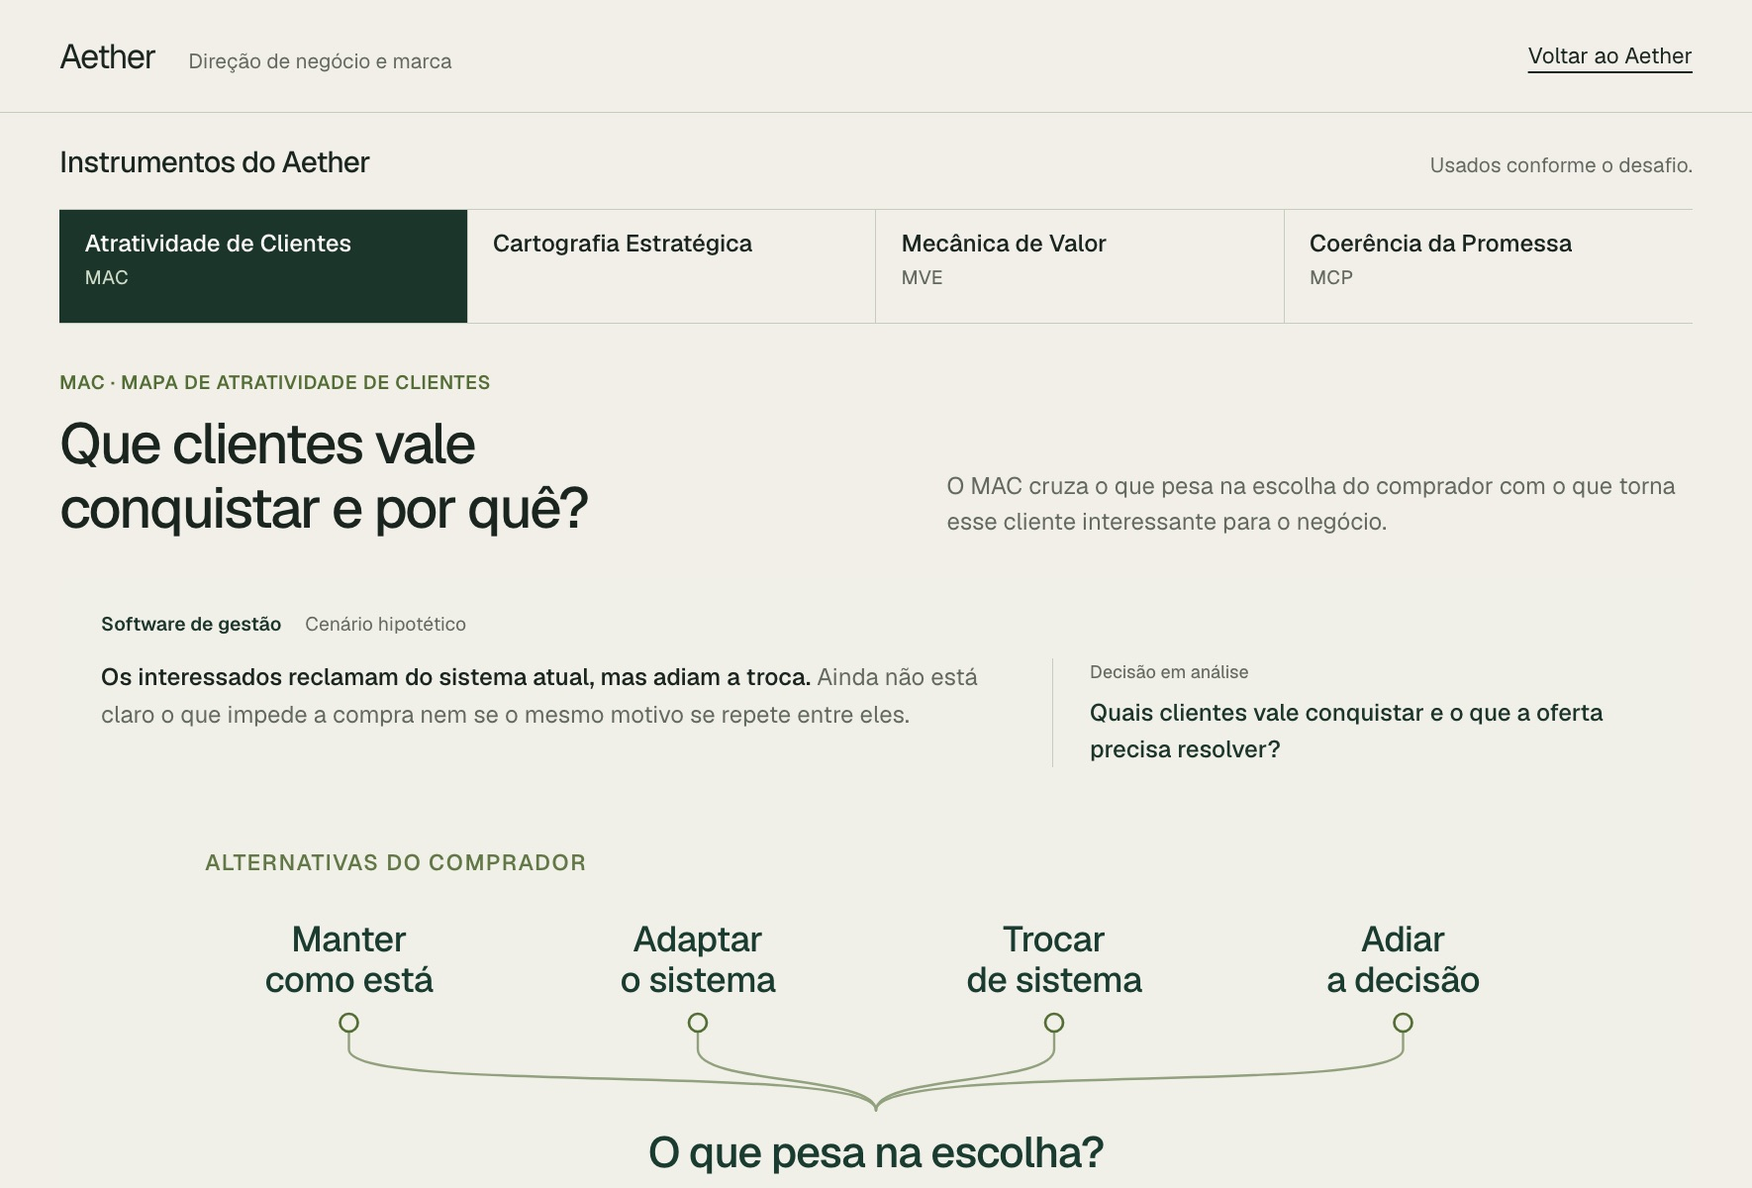
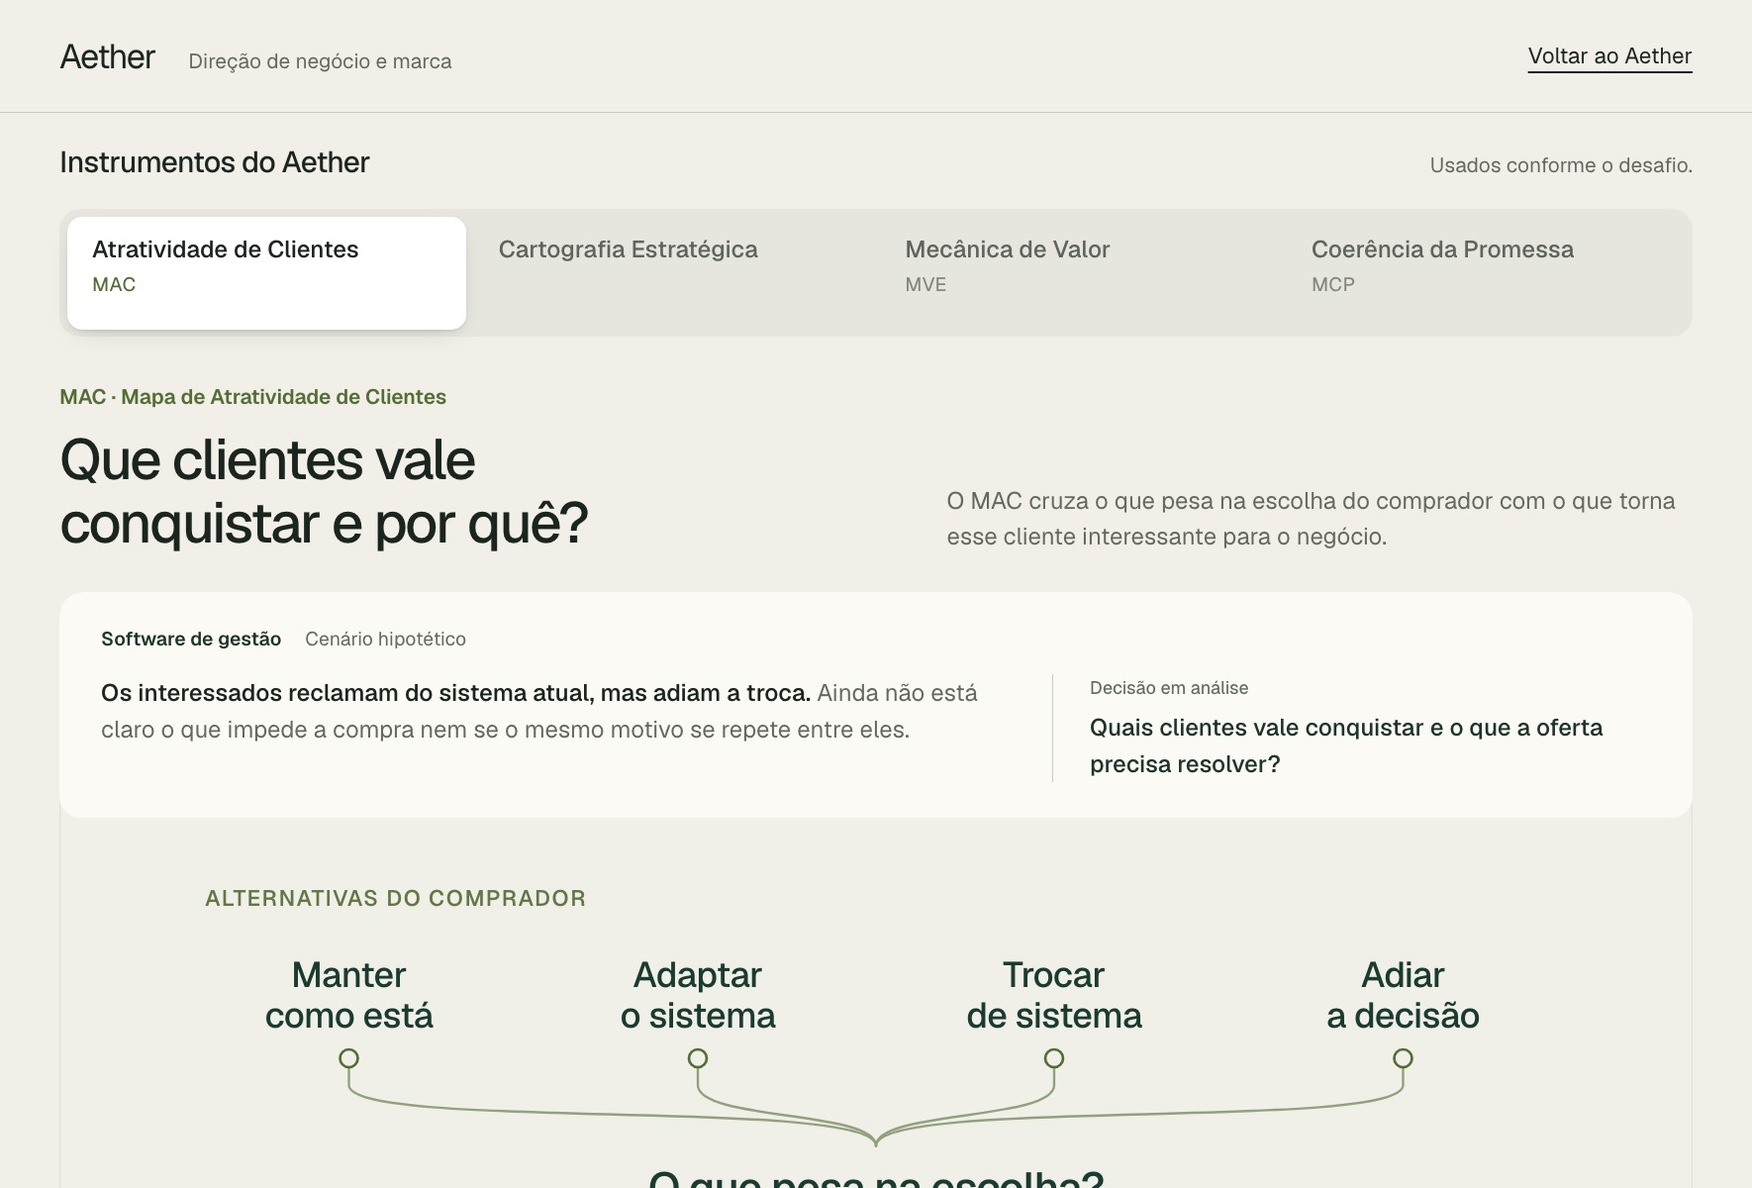
Aether: peça em 3D real (WebGL), projeto rediagramado, instrumentos com o iPad saindo da tela e diagramas com acabamento de app
A peça usa um mapa de profundidade gerado da foto e um shader WebGL: madeira e fundo se deslocam em relação ao papel, que ondula e recebe um brilho. Uma direção / O trabalho que ela exige com títulos e textos alinhados pelo topo e exemplos em lista. Bloco dos instrumentos com o texto maior e o iPad cortado pela borda da tela. Instrumentos com abas segmentadas, rótulos em caixa normal, superfícies arredondadas e linhas que se desenham ao trocar. Assinatura dos fundadores com as duas fotos, na altura dos botões. Carrossel começa pela Geórgia.

diff --git a/aether/js/aether-p.js b/aether/js/aether-p.js
@@ -117,6 +117,8 @@
   const box=document.querySelector('.founders');
   if(box&&!box.classList.contains('fx')){
     const people=[...box.querySelectorAll('.founder')];
+    /* começa pela Geórgia */
+    people.sort((a,b)=>(/Ge[óo]rgia/.test(b.querySelector('h3').textContent)?1:0)-(/Ge[óo]rgia/.test(a.querySelector('h3').textContent)?1:0));
     if(people.length>1){
       box.classList.add('fx');
       people.forEach(p=>p.classList.remove('rv'));
@@ -140,3 +142,113 @@
 
 /* 3 · as perguntas numa linha só: a quebra vira espaço */
 document.querySelectorAll('.a54-other-possibilities h3 br').forEach(br=>br.replaceWith(' '));
+
+/* exemplos do projeto como lista: cada linha (ou frase) vira um item, sem mudar o texto */
+document.querySelectorAll('.a54-project-examples').forEach(p=>{
+  if(p.querySelector('.pj-item'))return;
+  const hasBr=!!p.querySelector('br');
+  const parts=hasBr?p.innerHTML.split(/<br\s*\/?>/i):p.textContent.trim().split(/(?<=\.)\s+/);
+  p.innerHTML=parts.map(t=>t.trim()).filter(Boolean).map(t=>`<span class="pj-item">${t}</span>`).join(hasBr?'<br>':' ');
+});
+
+/* =====================================================================
+   A peça em 3D: profundidade gerada da própria foto (fundo longe, madeira
+   no meio, papel na frente) e um shader WebGL que desloca cada camada.
+   O papel fica como pivô e ondula de leve; a madeira e o fundo se movem
+   com o mouse e a rolagem.
+   ===================================================================== */
+(function(){
+  const ex=document.querySelector('.a54-exhibit');
+  if(!ex) return;
+  const imgs=[...ex.querySelectorAll('img.a54-art')];
+  if(!imgs.length||matchMedia('(prefers-reduced-motion: reduce)').matches) return;
+  const test=document.createElement('canvas').getContext('webgl');
+  if(!test) return;
+
+  const src=imgs[0];
+  const ready=src.complete&&src.naturalWidth?Promise.resolve():new Promise(r=>src.addEventListener('load',r,{once:true}));
+  ready.then(()=>{
+    /* 1 · mapa de profundidade, numa versão reduzida da foto */
+    const W=420,H=Math.round(W*src.naturalHeight/src.naturalWidth);
+    const c=document.createElement('canvas');c.width=W;c.height=H;
+    const cx=c.getContext('2d',{willReadFrequently:true});cx.drawImage(src,0,0,W,H);
+    const px=cx.getImageData(0,0,W,H).data;
+    let d=new Float32Array(W*H);
+    for(let i=0;i<W*H;i++){
+      const r=px[i*4],g=px[i*4+1],b=px[i*4+2],mx=Math.max(r,g,b),mn=Math.min(r,g,b),lum=.299*r+.587*g+.114*b;
+      const y=Math.floor(i/W)/H;
+      let v=.12+Math.max(0,y-.7)*.6;                         /* fundo, com o chão mais perto */
+      if(r>g+6&&r>b+10&&lum>22&&lum<170)v=.55;               /* madeira */
+      if(lum>135&&mx-mn<48)v=1;                              /* papel */
+      d[i]=v;
+    }
+    /* suaviza para não rasgar a imagem nas bordas */
+    const blur=(a,rad)=>{const o=new Float32Array(a.length);
+      for(let y=0;y<H;y++){let s=0;for(let x=-rad;x<=rad;x++)s+=a[y*W+Math.min(W-1,Math.max(0,x))];for(let x=0;x<W;x++){o[y*W+x]=s/(2*rad+1);s+=a[y*W+Math.min(W-1,x+rad+1)]-a[y*W+Math.max(0,x-rad)]}}
+      const o2=new Float32Array(a.length);
+      for(let x=0;x<W;x++){let s=0;for(let y=-rad;y<=rad;y++)s+=o[Math.min(H-1,Math.max(0,y))*W+x];for(let y=0;y<H;y++){o2[y*W+x]=s/(2*rad+1);s+=o[Math.min(H-1,y+rad+1)*W+x]-o[Math.max(0,y-rad)*W+x]}}
+      return o2};
+    d=blur(blur(blur(d,5),5),4);
+    const dep=new Uint8Array(W*H*4);for(let i=0;i<W*H;i++){const v=Math.round(Math.min(1,d[i])*255);dep[i*4]=dep[i*4+1]=dep[i*4+2]=v;dep[i*4+3]=255}
+
+    /* 2 · um canvas WebGL no lugar de cada camada da foto */
+    const VS='attribute vec2 p;varying vec2 v;void main(){v=p*.5+.5;v.y=1.-v.y;gl_Position=vec4(p,0.,1.);}';
+    const FS=`precision mediump float;varying vec2 v;uniform sampler2D img,dep;uniform vec2 m;uniform float t;
+      void main(){
+        vec2 uv=(v-.5)/1.045+.5;
+        float z=texture2D(dep,uv).r;
+        float paper=smoothstep(.72,.95,z);
+        uv-= (z-.92)*m*vec2(.034,.026);                        /* paralaxe: o papel é o pivô */
+        uv.y+=sin(uv.x*13.+t*1.1)*.0022*paper;                 /* o papel ondula */
+        uv.x+=cos(uv.y*9.-t*.9)*.0012*paper;
+        vec3 col=texture2D(img,uv).rgb;
+        float sheen=.5+.5*sin(uv.x*5.5-uv.y*2.-t*.55+m.x*2.5);
+        col+=paper*.05*sheen;                                 /* brilho que corre pelo papel */
+        gl_FragColor=vec4(col,1.);
+      }`;
+    const views=imgs.map(im=>{
+      const cv=document.createElement('canvas');cv.className=im.className;cv.setAttribute('aria-hidden','true');
+      im.after(cv);im.style.visibility='hidden';
+      const gl=cv.getContext('webgl',{premultipliedAlpha:false,antialias:false});
+      const sh=(type,s)=>{const o=gl.createShader(type);gl.shaderSource(o,s);gl.compileShader(o);return o};
+      const pr=gl.createProgram();gl.attachShader(pr,sh(gl.VERTEX_SHADER,VS));gl.attachShader(pr,sh(gl.FRAGMENT_SHADER,FS));gl.linkProgram(pr);gl.useProgram(pr);
+      const buf=gl.createBuffer();gl.bindBuffer(gl.ARRAY_BUFFER,buf);gl.bufferData(gl.ARRAY_BUFFER,new Float32Array([-1,-1,1,-1,-1,1,1,1]),gl.STATIC_DRAW);
+      const loc=gl.getAttribLocation(pr,'p');gl.enableVertexAttribArray(loc);gl.vertexAttribPointer(loc,2,gl.FLOAT,false,0,0);
+      const tex=(unit,data,w,h)=>{const tx=gl.createTexture();gl.activeTexture(gl.TEXTURE0+unit);gl.bindTexture(gl.TEXTURE_2D,tx);
+        gl.texParameteri(gl.TEXTURE_2D,gl.TEXTURE_MIN_FILTER,gl.LINEAR);gl.texParameteri(gl.TEXTURE_2D,gl.TEXTURE_MAG_FILTER,gl.LINEAR);
+        gl.texParameteri(gl.TEXTURE_2D,gl.TEXTURE_WRAP_S,gl.CLAMP_TO_EDGE);gl.texParameteri(gl.TEXTURE_2D,gl.TEXTURE_WRAP_T,gl.CLAMP_TO_EDGE);
+        if(w)gl.texImage2D(gl.TEXTURE_2D,0,gl.RGBA,w,h,0,gl.RGBA,gl.UNSIGNED_BYTE,data);else gl.texImage2D(gl.TEXTURE_2D,0,gl.RGBA,gl.RGBA,gl.UNSIGNED_BYTE,data)};
+      tex(0,src);tex(1,dep,W,H);
+      gl.uniform1i(gl.getUniformLocation(pr,'img'),0);gl.uniform1i(gl.getUniformLocation(pr,'dep'),1);
+      return{cv,gl,um:gl.getUniformLocation(pr,'m'),ut:gl.getUniformLocation(pr,'t')};
+    });
+    ex.classList.add('gl');
+    const size=()=>views.forEach(o=>{const r=o.cv.getBoundingClientRect(),k=Math.min(2,devicePixelRatio||1);o.cv.width=Math.max(1,Math.round(r.width*k));o.cv.height=Math.max(1,Math.round(r.height*k));o.gl.viewport(0,0,o.cv.width,o.cv.height)});
+    size();addEventListener('resize',size);
+
+    /* 3 · mouse (ou deriva lenta sem mouse) e rolagem */
+    const fine=matchMedia('(hover: hover) and (pointer: fine)').matches;
+    let tx=0,ty=0,mx=0,my=0,on=false;
+    if(fine){ex.addEventListener('pointermove',e=>{const r=ex.getBoundingClientRect();tx=(e.clientX-r.left)/r.width-.5;ty=(e.clientY-r.top)/r.height-.5});ex.addEventListener('pointerleave',()=>{tx=ty=0})}
+    new IntersectionObserver(es=>es.forEach(e=>on=e.isIntersecting),{rootMargin:'120px'}).observe(ex);
+    const t0=performance.now();
+    const frame=now=>{
+      if(on){
+        const t=(now-t0)/1000;
+        const r=ex.getBoundingClientRect(),k=(r.top+r.height/2-innerHeight/2)/innerHeight;
+        const ix=fine?tx:.35*Math.sin(t*.3),iy=(fine?ty:.25*Math.cos(t*.23))+k*.6;
+        mx+=(ix-mx)*.06;my+=(iy-my)*.06;
+        views.forEach(o=>{o.gl.uniform2f(o.um,mx,my);o.gl.uniform1f(o.ut,t);o.gl.drawArrays(o.gl.TRIANGLE_STRIP,0,4)});
+      }
+      requestAnimationFrame(frame);
+    };
+    requestAnimationFrame(frame);
+  }).catch(()=>{});
+})();
+
+/* assinatura dos fundadores com as duas fotos */
+(function(){const hp=document.querySelector('.hero-people');if(!hp||hp.querySelector('.hp-faces'))return;
+  const t=document.createElement('span');t.className='hp-text';while(hp.firstChild)t.appendChild(hp.firstChild);
+  const f=document.createElement('span');f.className='hp-faces';f.setAttribute('aria-hidden','true');
+  f.innerHTML='<img src="img/img-5-5cc64970.jpg" alt="" width="52" height="52"><img src="img/img-4-448280f5.jpg" alt="" width="52" height="52">';
+  hp.append(f,t)})();

diff --git a/aether/instrumentos.html b/aether/instrumentos.html
@@ -94,7 +94,8 @@
 @media(max-width:900px){.atlas-mobile{margin:0 auto;max-width:480px}.atlas-landscape{display:none}.atlas-key{padding-inline:23px;gap:15px}.atlas-controls .atlas-mini{width:70px}.atlas-symbols span:last-child{margin-left:0}.mve-experiment{max-width:480px;padding:15px 24px 12px}.mve-diagram .diagram-mobile{margin:0 auto}}
 @media(max-width:600px){.atlas-key{grid-template-columns:1fr;gap:13px;padding:4px 20px 21px}.atlas-key-item strong{font-size:15px}.atlas-key-item small{font-size:13px}.atlas-key-letter{width:26px;height:26px;flex-basis:26px;font-size:15px}.atlas-controls{padding:6px;gap:3px}.atlas-controls button{min-height:49px;padding:8px 4px}.atlas-controls button strong{font-size:15px}.atlas-controls .atlas-mini{display:none}.atlas-symbols{gap:9px 12px;padding:15px 20px 4px;font-size:11px}.atlas-symbols span:last-child{width:100%;font-size:11px}.atlas-mobile{margin-top:-2px}.atlas-note{padding:4px 20px 18px}.mve-experiment{padding-inline:20px}.mve-experiment label{font-size:13px}.mve-experiment output{font-size:16px}}
 @media(prefers-reduced-motion:reduce){.atlas-view.animate-route *{animation:none!important}.mve-diagram .thread{transition:none!important}}
-</style></head><body><a class="skip" href="#principal">Pular para o conteúdo</a><header class="tools-header"><div class="wrap tools-top"><div class="tools-name">Aether<span>Direção de negócio e marca</span></div><a class="text-link" href="./index.html">Voltar ao Aether</a></div></header><main class="wrap" id="principal"><div class="tools-intro"><h1>Instrumentos do Aether</h1><p>Usados conforme o desafio.</p></div><div aria-label="Escolher um instrumento" class="method-tabs" role="tablist"><button aria-controls="panel-mac" aria-selected="true" data-tool="mac" id="tool-mac" role="tab" tabindex="0" type="button">Atratividade de Clientes<span>MAC</span></button><button aria-controls="panel-carto" aria-selected="false" data-tool="carto" id="tool-carto" role="tab" tabindex="-1" type="button">Cartografia Estratégica</button><button aria-controls="panel-mve" aria-selected="false" data-tool="mve" id="tool-mve" role="tab" tabindex="-1" type="button">Mecânica de Valor<span>MVE</span></button><button aria-controls="panel-mcp" aria-selected="false" data-tool="mcp" id="tool-mcp" role="tab" tabindex="-1" type="button">Coerência da Promessa<span>MCP</span></button></div><section aria-labelledby="tool-mac" class="method-panel mac" id="panel-mac" role="tabpanel" tabindex="0">
+</style><link href="css/instrumentos-p.css?v=1" rel="stylesheet"/>
+</head><body><a class="skip" href="#principal">Pular para o conteúdo</a><header class="tools-header"><div class="wrap tools-top"><div class="tools-name">Aether<span>Direção de negócio e marca</span></div><a class="text-link" href="./index.html">Voltar ao Aether</a></div></header><main class="wrap" id="principal"><div class="tools-intro"><h1>Instrumentos do Aether</h1><p>Usados conforme o desafio.</p></div><div aria-label="Escolher um instrumento" class="method-tabs" role="tablist"><button aria-controls="panel-mac" aria-selected="true" data-tool="mac" id="tool-mac" role="tab" tabindex="0" type="button">Atratividade de Clientes<span>MAC</span></button><button aria-controls="panel-carto" aria-selected="false" data-tool="carto" id="tool-carto" role="tab" tabindex="-1" type="button">Cartografia Estratégica</button><button aria-controls="panel-mve" aria-selected="false" data-tool="mve" id="tool-mve" role="tab" tabindex="-1" type="button">Mecânica de Valor<span>MVE</span></button><button aria-controls="panel-mcp" aria-selected="false" data-tool="mcp" id="tool-mcp" role="tab" tabindex="-1" type="button">Coerência da Promessa<span>MCP</span></button></div><section aria-labelledby="tool-mac" class="method-panel mac" id="panel-mac" role="tabpanel" tabindex="0">
 <div class="panel-intro">
 <div><p class="eyebrow">MAC · Mapa de Atratividade de Clientes</p><h2>Que clientes vale conquistar e por quê?</h2></div>
 <p class="definition">O MAC cruza o que pesa na escolha do comprador com o que torna esse cliente interessante para o negócio.</p>
@@ -475,4 +476,5 @@ buttons.forEach((button,i)=>{button.addEventListener('click',()=>choose(button.d
   reading.querySelector('strong').textContent=title;reading.querySelector('span').textContent=explanation;
  }
  input.addEventListener('input',update);update();
-})();</script></body></html>
+})();</script><script src="js/instrumentos-p.js?v=1"></script>
+</body></html>

diff --git a/aether/css/aether-p.css b/aether/css/aether-p.css
@@ -238,3 +238,47 @@ a:focus-visible,button:focus-visible,summary:focus-visible,input:focus-visible,t
 
 .founders.fx .founder-role{max-width:none!important}
 @media (max-width:900px){.pj-link{display:none}}
+
+/* =====================================================================
+   Uma direção / O trabalho que ela exige — diagramação revista:
+   título e texto alinhados pelo topo, frase de abertura em destaque,
+   exemplos como lista com linhas finas, sem o fio
+   ===================================================================== */
+.pj-link{display:none!important}
+.a54-project-intro{padding-bottom:clamp(36px,4vw,64px)!important}
+.a54-project-definition{font-size:clamp(22px,2.2vw,36px)!important;line-height:1.22!important;letter-spacing:-.035em!important;max-width:28ch!important;color:#20382A!important}
+.a54-project-left,.a54-project-right{align-items:start!important;padding-block:clamp(52px,6vw,96px)!important;border-top:1px solid rgba(32,56,42,.14)}
+.a54-project-right{border-top:0}
+.a54-project-left>h2,.a54-project-right>h3{grid-row:1/span 2!important;align-self:start!important}
+.a54-project-action{font-size:clamp(20px,1.75vw,28px)!important;line-height:1.25!important;letter-spacing:-.03em!important;margin:0 0 clamp(18px,2vw,26px)!important;max-width:22ch}
+.a54-project-examples{border:0!important;padding:0!important;margin:0!important;font-size:clamp(15px,1.15vw,18px)!important}
+.a54-project-examples .pj-item{display:block;padding:13px 0;border-top:1px solid rgba(32,56,42,.16)}
+.a54-project-right .a54-project-examples .pj-item{border-color:rgba(242,240,230,.18)}
+.a54-project-examples .pj-item:last-child{border-bottom:1px solid rgba(32,56,42,.16)}
+.a54-project-right .a54-project-examples .pj-item:last-child{border-bottom-color:rgba(242,240,230,.18)}
+.a54-project-examples br{display:none}
+
+/* a peça em WebGL: o canvas ocupa o lugar da foto; sem a inclinação de CSS por cima */
+.a54-exhibit.gl .a54-art{transform:translate3d(0,var(--py),0)!important}
+.a54-exhibit canvas.a54-art{display:block;height:auto;aspect-ratio:1672/941}
+
+/* =====================================================================
+   Instrumentos: o iPad sai pela borda da tela, texto maior
+   ===================================================================== */
+#abordagem{overflow-x:clip}
+@media (min-width:901px){
+  .approach-foot{position:relative;grid-template-columns:minmax(0,.8fr) minmax(0,1.2fr)!important;border-radius:6px 0 0 6px!important;margin-right:calc(-1*var(--pad) - max(0px,(100vw - var(--max))/2))!important;padding:clamp(44px,5vw,88px) 0 clamp(44px,5vw,88px) clamp(36px,4.4vw,80px)!important;overflow:visible}
+  .approach-foot .approach-caption{font-size:clamp(30px,3.1vw,54px)!important;line-height:1.1!important;letter-spacing:-.045em!important;max-width:16ch!important}
+  .ap-preview{width:118%;justify-self:start;margin-right:-30%;transform:perspective(2000px) rotateY(-14deg) rotateX(4deg) translateX(4%)!important;transform-origin:left center}
+  .ap-preview:hover{transform:perspective(2000px) rotateY(-9deg) rotateX(2deg) translateX(2%)!important}
+}
+
+/* assinatura dos fundadores presa ao bloco de ação: fotos sobrepostas, na altura dos botões */
+.hero-bottom{align-items:end!important}
+.hero-people{display:flex!important;align-items:center;gap:16px;padding:0!important;margin:0 0 4px!important;font-size:14.5px!important;line-height:1.35!important;color:var(--muted)}
+.hero-people .hp-faces{display:flex;flex:0 0 auto}
+.hero-people .hp-faces img{width:52px;height:52px;border-radius:50%;object-fit:cover;object-position:center 22%;border:3px solid var(--paper);box-shadow:0 6px 16px -8px rgba(20,35,25,.45)}
+.hero-people .hp-faces img+img{margin-left:-14px}
+.hero-people .hp-text strong{display:block;font-size:17px!important;margin-top:2px!important}
+@media (max-width:900px){.hero-people{margin-top:26px!important}}
+@media (max-width:900px){.hero-fit>span:last-child{flex-wrap:wrap;font-size:clamp(24px,7.4vw,34px)!important}}

diff --git a/aether/css/instrumentos-p.css b/aether/css/instrumentos-p.css
@@ -1,0 +1,25 @@
+/* Instrumentos do Aether — acabamento de app (Rzrd.)
+   Mesmo conteúdo e mesmos diagramas; abas segmentadas, rótulos em caixa normal,
+   superfícies arredondadas e linhas que se desenham ao trocar de instrumento. */
+:root{--ip-ease:cubic-bezier(.22,1,.36,1)}
+.eyebrow{text-transform:none!important;letter-spacing:-.005em!important;font-size:14px!important;font-weight:600!important}
+
+/* abas: controle segmentado */
+.method-tabs{border:0!important;background:#E7E6DE;border-radius:14px;padding:5px;gap:5px}
+.method-tabs button{border:0!important;border-radius:10px!important;background:transparent!important;color:#5D655D!important;transition:background .35s var(--ip-ease),color .35s var(--ip-ease),box-shadow .35s}
+.method-tabs button span{opacity:.75}
+.method-tabs button[aria-selected="true"]{background:#FFFFFF!important;color:#19251E!important;box-shadow:0 1px 2px rgba(20,30,20,.08),0 6px 18px -8px rgba(20,30,20,.22)}
+.method-tabs button[aria-selected="true"] span{color:#526D31!important;opacity:1}
+.method-tabs button:hover{color:#19251E!important}
+
+/* superfícies */
+.scenario{border:0!important;border-radius:14px;background:#FBFAF5;margin-bottom:14px!important}
+.diagram,.atlas{border-radius:16px;overflow:hidden;border:0!important}
+.diagram{box-shadow:inset 0 0 0 1px rgba(25,37,30,.06)}
+
+/* entrada de cada instrumento */
+.method-panel:not([hidden]){animation:ip-in .7s var(--ip-ease) both}
+@keyframes ip-in{from{opacity:0;transform:translateY(14px)}to{opacity:1;transform:none}}
+.ip-draw{stroke-dasharray:1;stroke-dashoffset:1;animation:ip-draw 1.6s var(--ip-ease) forwards;animation-delay:var(--dl,0s)}
+@keyframes ip-draw{to{stroke-dashoffset:0}}
+@media (prefers-reduced-motion:reduce){.method-panel:not([hidden]){animation:none}.ip-draw{animation:none;stroke-dasharray:none;stroke-dashoffset:0}}

diff --git a/aether/js/instrumentos-p.js b/aether/js/instrumentos-p.js
@@ -1,0 +1,17 @@
+/* Instrumentos do Aether — as linhas do diagrama se desenham ao abrir cada instrumento */
+(function(){
+  if(matchMedia('(prefers-reduced-motion: reduce)').matches) return;
+  const draw=panel=>{
+    if(!panel||panel.hidden) return;
+    const paths=[...panel.querySelectorAll('svg path, svg line, svg polyline')].filter(p=>{
+      const cs=getComputedStyle(p);return cs.stroke&&cs.stroke!=='none'&&(cs.fill==='none'||cs.fill==='rgba(0, 0, 0, 0)')&&p.getBBox&&p.getBoundingClientRect().width+p.getBoundingClientRect().height>0});
+    paths.forEach((p,i)=>{
+      if(p.getAttribute('stroke-dasharray')||getComputedStyle(p).strokeDasharray!=='none'&&!p.classList.contains('ip-draw')) return; /* linhas tracejadas ficam como estão */
+      p.setAttribute('pathLength','1');p.classList.remove('ip-draw');void p.getBoundingClientRect();
+      p.style.setProperty('--dl',Math.min(i*.025,.8).toFixed(3)+'s');p.classList.add('ip-draw');
+    });
+  };
+  const panels=[...document.querySelectorAll('.method-panel')];
+  new MutationObserver(ms=>ms.forEach(m=>{if(m.target.classList.contains('method-panel')&&!m.target.hidden)draw(m.target)})).observe(document.body,{attributes:true,subtree:true,attributeFilter:['hidden']});
+  const first=panels.find(p=>!p.hidden);if(first)requestAnimationFrame(()=>draw(first));
+})();

diff --git a/aether/index.html b/aether/index.html
@@ -25,7 +25,7 @@
 
 
 <link href="css/aether.css?v=10" rel="stylesheet"/>
-<link href="css/aether-p.css?v=8" rel="stylesheet"/>
+<link href="css/aether-p.css?v=14" rel="stylesheet"/>
 </head>
 <body>
 <a class="skip" href="#principal">Pular para o conteúdo</a>
@@ -193,6 +193,6 @@
 <dialog aria-labelledby="method-dialog-title" class="method-dialog" id="method-dialog"><div class="dialog-toolbar"><strong id="method-dialog-title">Aether · Instrumentos para decidir</strong><button class="dialog-close" id="close-method" type="button">Fechar</button></div><iframe class="method-frame" id="method-frame" data-src="instrumentos.html" title="Instrumentos do Aether: Atratividade de Clientes, Cartografia Estratégica, Mecânica de Valor e Coerência da Promessa"></iframe></dialog>
 
 <script src="js/aether.js?v=10"></script>
-<script src="js/aether-p.js?v=5"></script>
+<script src="js/aether-p.js?v=10"></script>
 </body>
 </html>
